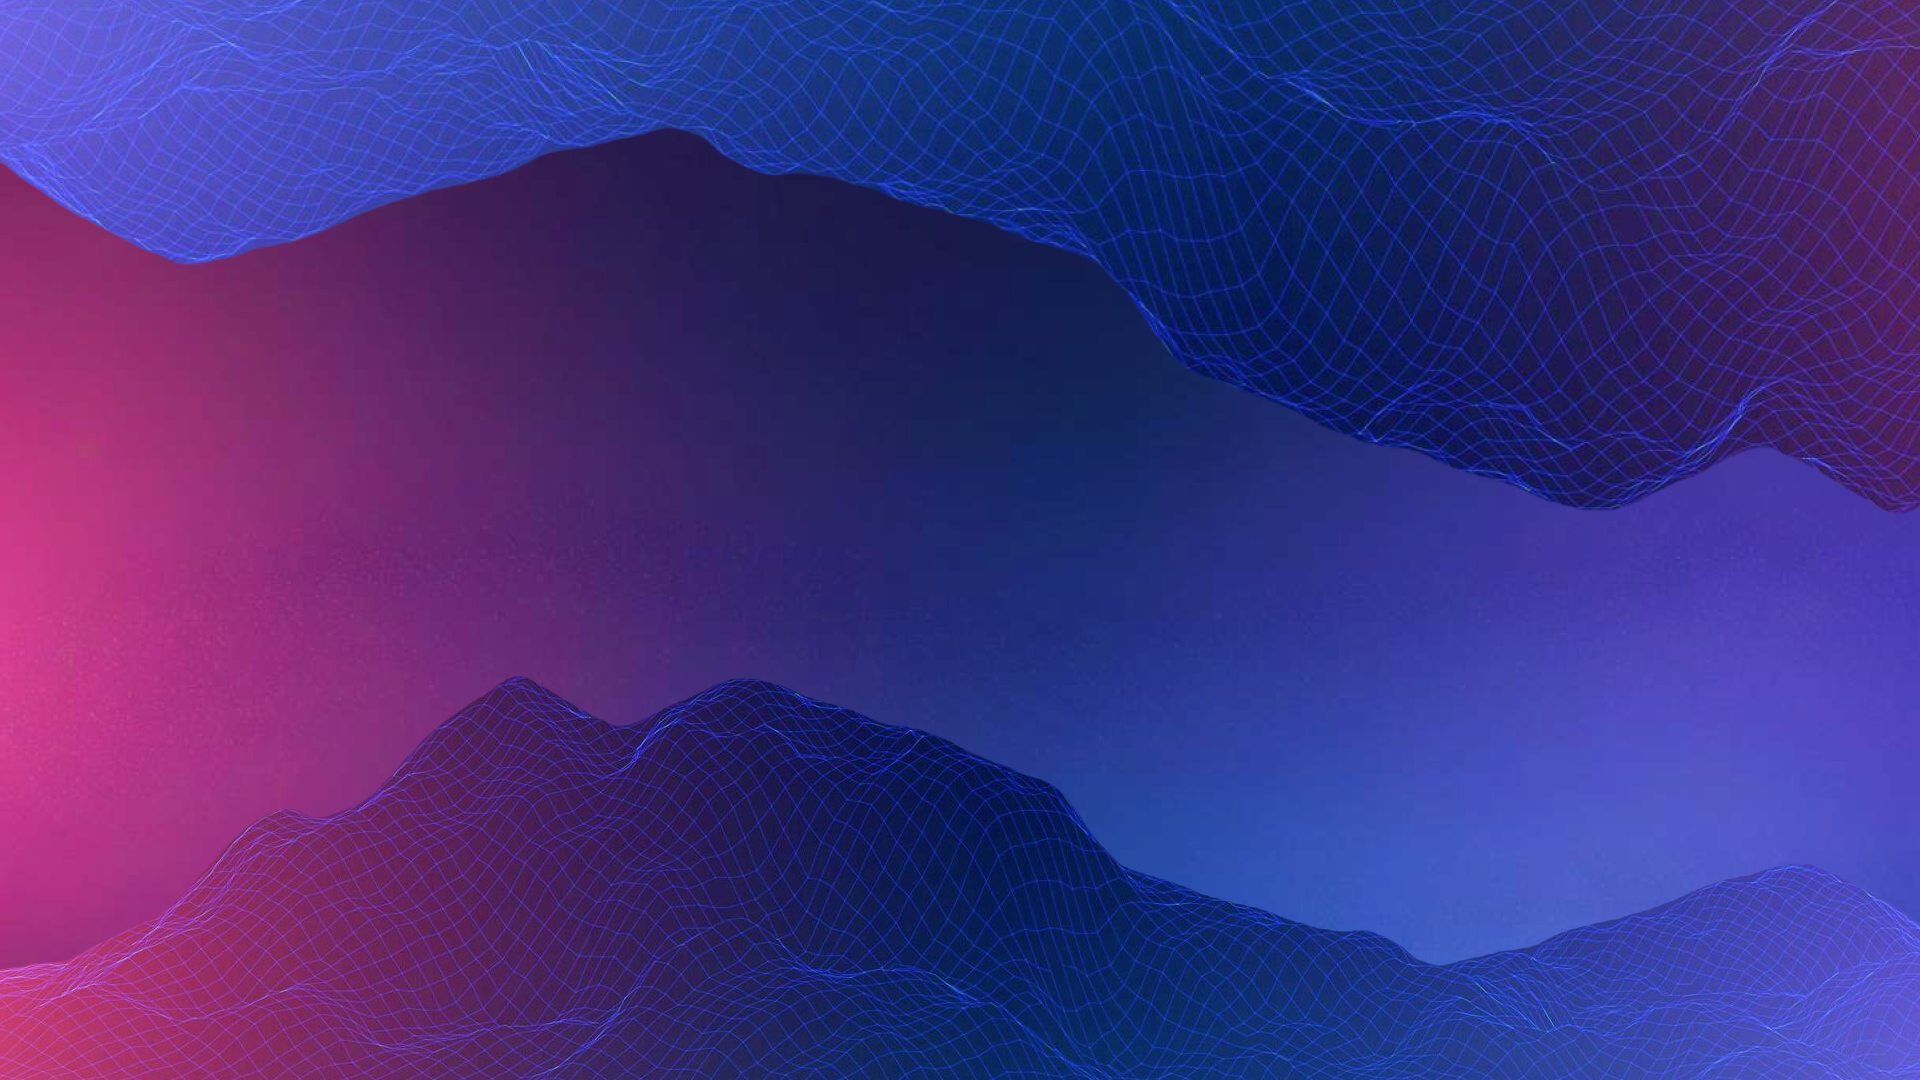
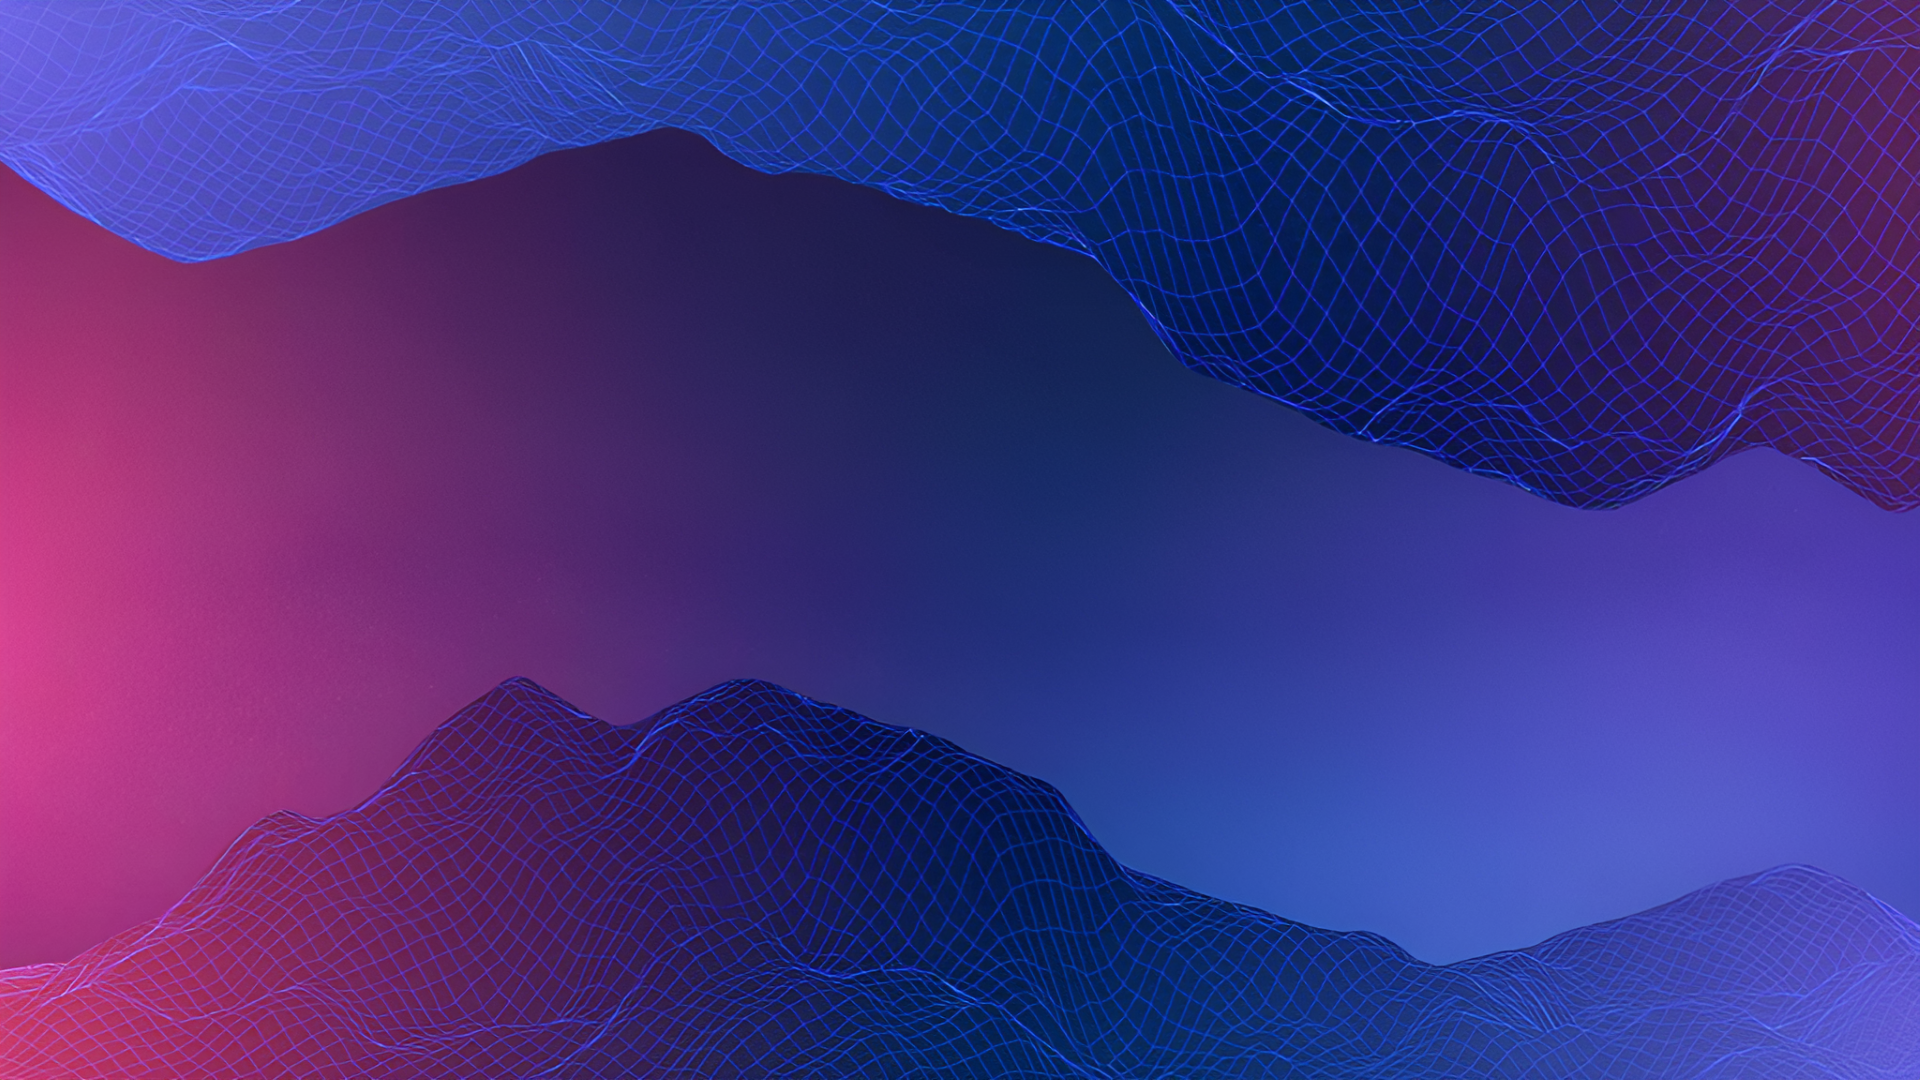
Migration de la navbar dans un fichier php à part pour une [...] maintenance plus simple & Ajout de la gestion d'erreurs pour les suppressions de données impliquées dans une contrainte de clé étrangère & Suppression exposition ok & Restauration qualité image d'arrière plan

diff --git a/pages/utilisateurs.php b/pages/utilisateurs.php
@@ -7,6 +7,8 @@ require ('../bdd/requetes.php');
 
 verifSession(); // Vérifie si une session valide existe
 
+$estAdmin = isset($_SESSION['est_admin']) && $_SESSION['est_admin'] == 1;
+
 if (!isset($_SESSION['est_admin']) || $_SESSION['est_admin'] != 1) {
     // Rediriger l'utilisateur vers une autre page s'il n'est pas admin
     header('Location: accueil.php');
@@ -20,8 +22,13 @@ if ($pdo == FALSE) {
 // Vérification si une suppression est demandée
 if (isset($_POST['supprimerEmploye']) && $_POST['supprimerEmploye'] != trim('')) {
     $userIdToDelete = intval($_POST['supprimerEmploye']); // Sécuriser la donnée
-    
+    try {
     supprimerLigne($pdo, $userIdToDelete, "Employe");
+    } catch (PDOException) {
+        $_SESSION['donneeEnErreur'] = 'utilisateur';
+        $_SESSION['cheminDernierePage'] = '/S3.D.01-Web/pages/utilisateurs.php';
+        header("Location: ./erreurs/impossibleDeTraiterVotreDemande.php");
+    }
 }
 
 
@@ -91,26 +98,9 @@ if ($_SERVER['REQUEST_METHOD'] === 'POST' && !isset($_POST['supprimerEmploye']))
     <title>MUSEOFLOW - Gestion des Utilisateurs</title>
 </head>
 <body class="fond">
-    <nav class="navbar">
-        <div class="logo">
-            <a href="accueil.php"><img class="logo-img" src="../ressources/images/logo.png" alt="Logo MuseoFlow"></a>
-            Intranet du Musée
-        </div>
-        <div class="main-menu">
-            <a href="utilisateurs.php" class="deco"><div class="menu-item">Utilisateurs</div></a>
-            <a href="expositions.php" class="deco"><div class="menu-item">Expositions</div></a>
-            <a href="conferenciers.php" class="deco"><div class="menu-item">Conférenciers</div></a>
-            <a href="visites.php" class="deco"><div class="menu-item">Visites</div> </a>
-            <a href="exportation.php" class="deco"><div class="menu-item">Exportation</div></a>
-            <!-- Menu déroulant -->
-            <div class="dropdown">
-                <div class="menu-item"><i class="fa-solid fa-user"></i> <?php echo htmlspecialchars($_SESSION['prenom']); ?> <i class="fa-solid fa-angle-down"></i></div>
-                <div class="dropdown-menu">
-                    <a href="deconnexion.php" class="btn-red">Se déconnecter</a>
-                </div>
-            </div>
-        </div>
-    </nav>
+    
+    <?php require("../ressources/navBar.php");?>
+
     <div class="container content">
     <div class="container-blanc">
         <h1 class="text-center">Gestion des Utilisateurs</h1>

diff --git a/pages/expositions.php b/pages/expositions.php
@@ -17,7 +17,13 @@ $estAdmin = isset($_SESSION['est_admin']) && $_SESSION['est_admin'] == 1;
 if (isset($_POST['supprimerExposition']) && $_POST['supprimerExposition'] != trim('')) {
     $userIdToDelete = intval($_POST['supprimerExposition']); // Sécuriser la donnée
     
-    supprimerLigne($pdo, $userIdToDelete, "Exposition");
+    try {
+        supprimerLigne($pdo, $userIdToDelete, "Exposition");
+    } catch (PDOException) {
+        $_SESSION['donneeEnErreur'] = 'exposition';
+        $_SESSION['cheminDernierePage'] = '/S3.D.01-Web/pages/expositions.php';
+        header("Location: ./erreurs/impossibleDeTraiterVotreDemande.php");
+    }
 }
 
 ?>
@@ -37,43 +43,7 @@ if (isset($_POST['supprimerExposition']) && $_POST['supprimerExposition'] != tri
 
 </head>
 <body class="fond">
-    <nav class="navbar">
-        <div class="logo">
-            <a href="accueil.php"><img class="logo-img"
-                src="../ressources/images/logo.png" alt="Logo MuseoFlow"></a>
-            Intranet du Musée
-        </div>
-        <div class="main-menu">
-               <?php
-                if ($estAdmin){
-                    echo '<a href="utilisateurs.php" class="deco"><div class="menu-item">Utilisateurs</div></a>';
-                }
-                ?>
-                <a href="expositions.php" class="deco">
-                    <div class="menu-item">Expositions</div>
-                </a> 
-                <a href="conferenciers.php" class="deco">
-                    <div class="menu-item">Conférenciers</div>
-                </a> 
-                <a href="visites.php" class="deco">
-                    <div class="menu-item">Visites</div>
-                </a> 
-                <a href="exportation.php" class="deco">
-                    <div class="menu-item">Exportation</div>
-                </a>
-            <!-- Menu déroulant -->
-            <div class="dropdown">
-                <div class="menu-item">
-                    <i class="fa-solid fa-user"></i> <?php echo htmlspecialchars($_SESSION['prenom']); ?> <i
-                        class="fa-solid fa-angle-down"></i>
-                </div>
-                <div class="dropdown-menu">
-                    <a href="deconnexion.php" class="btn-red">Se
-                        déconnecter</a>
-                </div>
-            </div>
-        </div>
-    </nav>
+    <?php require("../ressources/navBar.php");?>
 
     <div class="container content">
 

diff --git a/pages/visites.php b/pages/visites.php
@@ -15,7 +15,7 @@
     // Vérification si une suppression est demandée
     if (isset($_POST['supprimerVisite']) && $_POST['supprimerVisite'] != trim('')) {
         $userIdToDelete = intval($_POST['supprimerVisite']); // Sécuriser la donnée
-        
+        // Pas de try catch car rien ne doit bloquer la suppression d'une visite
         supprimerLigne($pdo, $userIdToDelete, "Visite");
     }
     
@@ -30,30 +30,9 @@
     <title>MUSEOFLOW - Gestion des Visites</title>
 </head>
 <body class="fond">
-    <nav class="navbar">
-        <div class="logo">
-            <a href="accueil.php"><img class="logo-img" src="../ressources/images/logo.png" alt="Logo MuseoFlow"></a>
-            Intranet du Musée
-        </div>
-        <div class="main-menu">
-            <?php
-                if ($estAdmin){
-                    echo '<a href="utilisateurs.php" class="deco"><div class="menu-item">Utilisateurs</div></a>';
-                }
-            ?>
-            <a href="expositions.php" class="deco"><div class="menu-item">Expositions</div></a>
-            <a href="conferenciers.php" class="deco"><div class="menu-item">Conférenciers</div></a>
-            <a href="visites.php" class="deco"><div class="menu-item">Visites</div> </a>
-            <a href="exportation.php" class="deco"><div class="menu-item">Exportation</div></a>
-            <!-- Menu déroulant -->
-            <div class="dropdown">
-                    <div class="menu-item"><i class="fa-solid fa-user"></i> <?php echo htmlspecialchars($_SESSION['prenom']); ?> <i class="fa-solid fa-angle-down"></i></div>
-                    <div class="dropdown-menu">
-                        <a href="deconnexion.php" class="btn-red">Se déconnecter</a>
-                    </div>
-                </div>
-        </div>
-    </nav>
+   
+    <?php require("../ressources/navBar.php");?>
+
     <div class="container content col-12">
     <div class="container-blanc">
         <h1 class="text-center">Gestion des Visites</h1>

diff --git a/pages/conferenciers.php b/pages/conferenciers.php
@@ -23,30 +23,9 @@
     <title>MUSEOFLOW - Gestion des Conférenciers</title>
 </head>
 <body class="fond">
-    <nav class="navbar">
-                <div class="logo">
-                    <a href="accueil.php"><img class="logo-img" src="../ressources/images/logo.png" alt="Logo MuseoFlow"></a>
-                    Intranet du Musée
-                </div>
-                <div class="main-menu">
-                    <?php
-                        if ($estAdmin){
-                            echo '<a href="utilisateurs.php" class="deco"><div class="menu-item">Utilisateurs</div></a>';
-                        }
-                    ?>
-                    <a href="expositions.php" class="deco"><div class="menu-item">Expositions</div></a>
-                    <a href="conferenciers.php" class="deco"><div class="menu-item">Conférenciers</div></a>
-                    <a href="visites.php" class="deco"><div class="menu-item">Visites</div> </a>
-                    <a href="exportation.php" class="deco"><div class="menu-item">Exportation</div></a>
-                    <!-- Menu déroulant -->
-                    <div class="dropdown">
-                        <div class="menu-item"><i class="fa-solid fa-user"></i> <?php echo htmlspecialchars($_SESSION['prenom']); ?> <i class="fa-solid fa-angle-down"></i></div>
-                        <div class="dropdown-menu">
-                            <a href="deconnexion.php" class="btn-red">Se déconnecter</a>
-                        </div>
-                    </div>
-                </div>
-            </nav>
+
+    <?php require("../ressources/navBar.php");?>
+    
         <div class="container content">
         <div class="container-blanc">
             <h1 class="text-center">Gestion des Conférenciers</h1>

diff --git a/ressources/navBar.php b/ressources/navBar.php
@@ -1,0 +1,37 @@
+    <nav class="navbar">
+        <div class="logo">
+            <a href="accueil.php"><img class="logo-img"
+                src="/S3.D.01-Web/ressources/images/logo.png" alt="Logo MuseoFlow"></a>
+            Intranet du Musée
+        </div>
+        <div class="main-menu">
+               <?php
+                if ($estAdmin){
+                    echo '<a href="/S3.D.01-Web/pages/utilisateurs.php" class="deco"><div class="menu-item">Utilisateurs</div></a>';
+                }
+                ?>
+                <a href="/S3.D.01-Web/pages/expositions.php" class="deco">
+                    <div class="menu-item">Expositions</div>
+                </a> 
+                <a href="/S3.D.01-Web/pages/conferenciers.php" class="deco">
+                    <div class="menu-item">Conférenciers</div>
+                </a> 
+                <a href="/S3.D.01-Web/pages/visites.php" class="deco">
+                    <div class="menu-item">Visites</div>
+                </a> 
+                <a href="/S3.D.01-Web/pages/exportation.php" class="deco">
+                    <div class="menu-item">Exportation</div>
+                </a>
+            <!-- Menu déroulant -->
+            <div class="dropdown">
+                <div class="menu-item">
+                    <i class="fa-solid fa-user"></i> <?php echo htmlspecialchars($_SESSION['prenom']); ?> <i
+                        class="fa-solid fa-angle-down"></i>
+                </div>
+                <div class="dropdown-menu">
+                    <a href="/S3.D.01-Web/pages/deconnexion.php" class="btn-red">Se
+                        déconnecter</a>
+                </div>
+            </div>
+        </div>
+    </nav>

diff --git a/pages/accueil.php b/pages/accueil.php
@@ -15,30 +15,9 @@
     </head>
 
     <body class="no-bg">
-        <nav class="navbar">
-            <div class="logo">
-                <a href="accueil.php"><img class="logo-img" src="../ressources/images/logo.png" alt="Logo MuseoFlow"></a>
-                Intranet du Musée
-            </div>
-            <div class="main-menu">
-                <?php
-                    if ($estAdmin){
-                        echo '<a href="utilisateurs.php" class="deco"><div class="menu-item">Utilisateurs</div></a>';
-                    }
-                ?>
-                <a href="expositions.php" class="deco"><div class="menu-item">Expositions</div></a>
-                <a href="conferenciers.php" class="deco"><div class="menu-item">Conférenciers</div></a>
-                <a href="visites.php" class="deco"><div class="menu-item">Visites</div> </a>
-                <a href="exportation.php" class="deco"><div class="menu-item">Exportation</div></a>
-                <!-- Menu déroulant -->
-                <div class="dropdown">
-                    <div class="menu-item"><i class="fa-solid fa-user"></i> <?php echo htmlspecialchars($_SESSION['prenom']); ?> <i class="fa-solid fa-angle-down"></i></i></div>
-                    <div class="dropdown-menu">
-                        <a href="deconnexion.php" class="btn-red">Se déconnecter</a>
-                    </div>
-                </div>
-            </div>
-        </nav>
+    
+       <?php require("../ressources/navBar.php");?>
+       
         <h1>Bienvenue <?php echo htmlspecialchars($_SESSION['prenom']) . ','; ?></h1><br>
         <section class="actualites-section">
         <h2>Actualités :</h2>

diff --git a/pages/erreurs/impossibleDeTraiterVotreDemande.php b/pages/erreurs/impossibleDeTraiterVotreDemande.php
@@ -1,0 +1,41 @@
+<?php
+session_start();
+require ('../../bdd/fonctions.php');
+
+verifSession(); // Vérifie si une session valide existe
+
+$estAdmin = isset($_SESSION['est_admin']) && $_SESSION['est_admin'] == 1;
+
+?>
+<!DOCTYPE HTML>
+<html lang="fr">
+<head>
+    <link  href="../../css/style.css" rel="stylesheet"/>
+    <link
+        href="https://cdn.jsdelivr.net/npm/bootstrap@5.0.2/dist/css/bootstrap.min.css"
+        rel="stylesheet"
+        integrity="sha384-EVSTQN3/azprG1Anm3QDgpJLIm9Nao0Yz1ztcQTwFspd3yD65VohhpuuCOmLASjC"
+        crossorigin="anonymous">
+    <script src="https://kit.fontawesome.com/17d5b3fa89.js" crossorigin="anonymous"></script> 
+    
+    <meta charset="UTF-8">
+    <title>MuseoFlow - Erreur</title>
+</head>
+<body>
+<?php require("../../ressources/navBar.php");?>
+    <!-- Containeur principal de la page -->
+    <div class="container login-container">
+
+        <div class="row">
+            <!-- Entête de la page -->
+            <div class="col-12">
+                <h1 class="blanc">Impossible de supprimer la donnée demandée : <?php echo $_SESSION['donneeEnErreur']?></h1>
+                <h2 class="blanc">Une visite planifiée utilise cette donnée, vous devez la supprimer d'abord.</h2>
+                <form action="<?php echo $_SESSION['cheminDernierePage'];?>">
+                    <button id='btn_retour' class='btn-action btn-modify btn-blue'><span class='fa-classic fa-solid fa-arrow-left-long fa-fw'></span>Retour</button>
+                </form>
+            </div>
+        </div>
+    </div>
+</body>
+</html>

diff --git a/pages/exportation.php b/pages/exportation.php
@@ -16,30 +16,8 @@
     <title>MUSEOFLOW - Exportation des fichiers</title>
 </head>
 <body>
-    <nav class="navbar">
-        <div class="logo">
-            <a href="accueil.php"><img class="logo-img" src="../ressources/images/logo.png" alt="Logo MuseoFlow"></a>
-            Intranet du Musée
-        </div>
-        <div class="main-menu">
-            <?php
-                if ($estAdmin){
-                    echo '<a href="utilisateurs.php" class="deco"><div class="menu-item">Utilisateurs</div></a>';
-                }
-            ?>
-            <a href="expositions.php" class="deco"><div class="menu-item">Expositions</div></a>
-            <a href="conferenciers.php" class="deco"><div class="menu-item">Conférenciers</div></a>
-            <a href="visites.php" class="deco"><div class="menu-item">Visites</div> </a>
-            <a href="exportation.php" class="deco"><div class="menu-item">Exportation</div></a>
-            <!-- Menu déroulant -->
-            <div class="dropdown">
-                    <div class="menu-item"><i class="fa-solid fa-user"></i> <?php echo htmlspecialchars($_SESSION['prenom']); ?> <i class="fa-solid fa-angle-down"></i></i></div>
-                    <div class="dropdown-menu">
-                        <a href="deconnexion.php" class="btn-red">Se déconnecter</a>
-                    </div>
-                </div>
-         </div>
-    </nav>
+    
+    <?php require("../ressources/navBar.php");?>
 
         <div class="container content">
             <div class="container-blanc justify-content-center">
